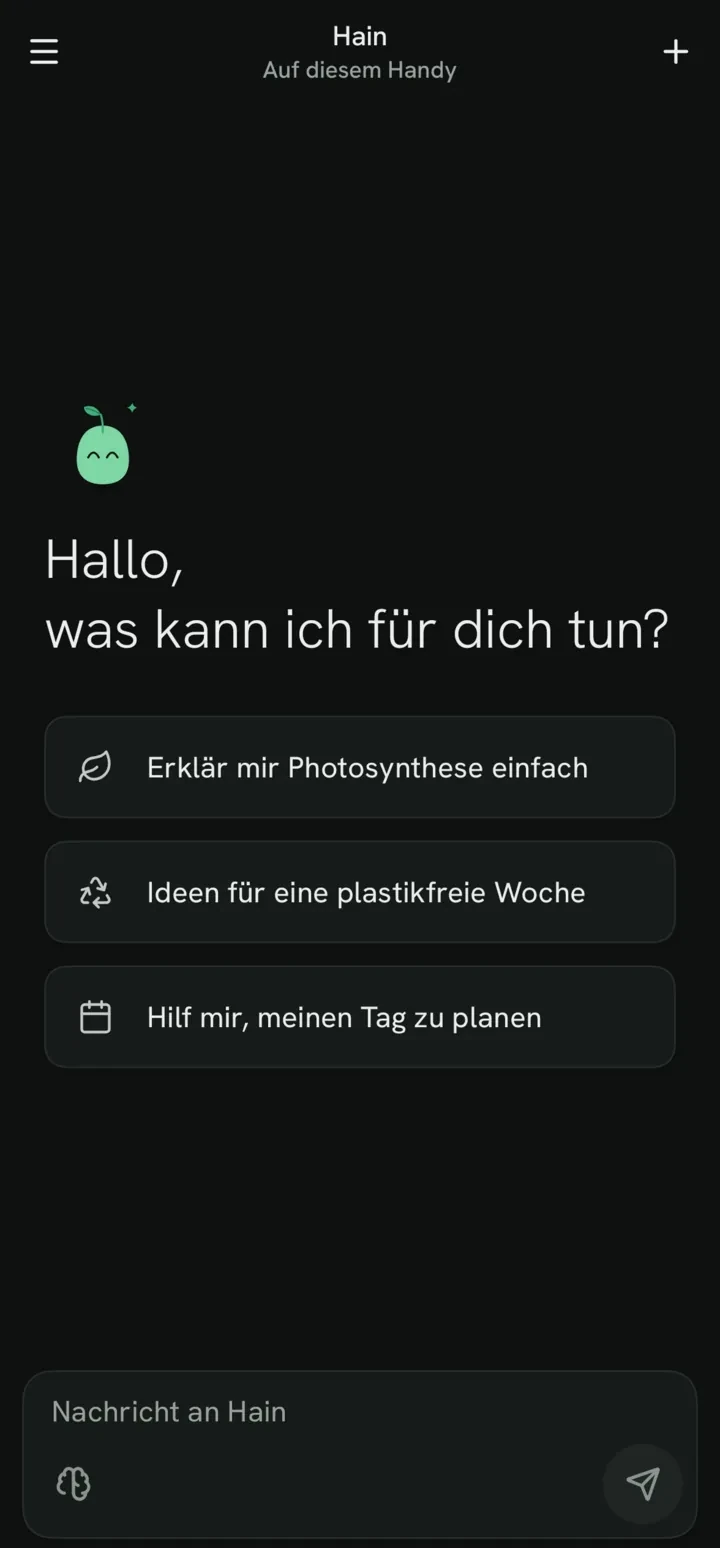
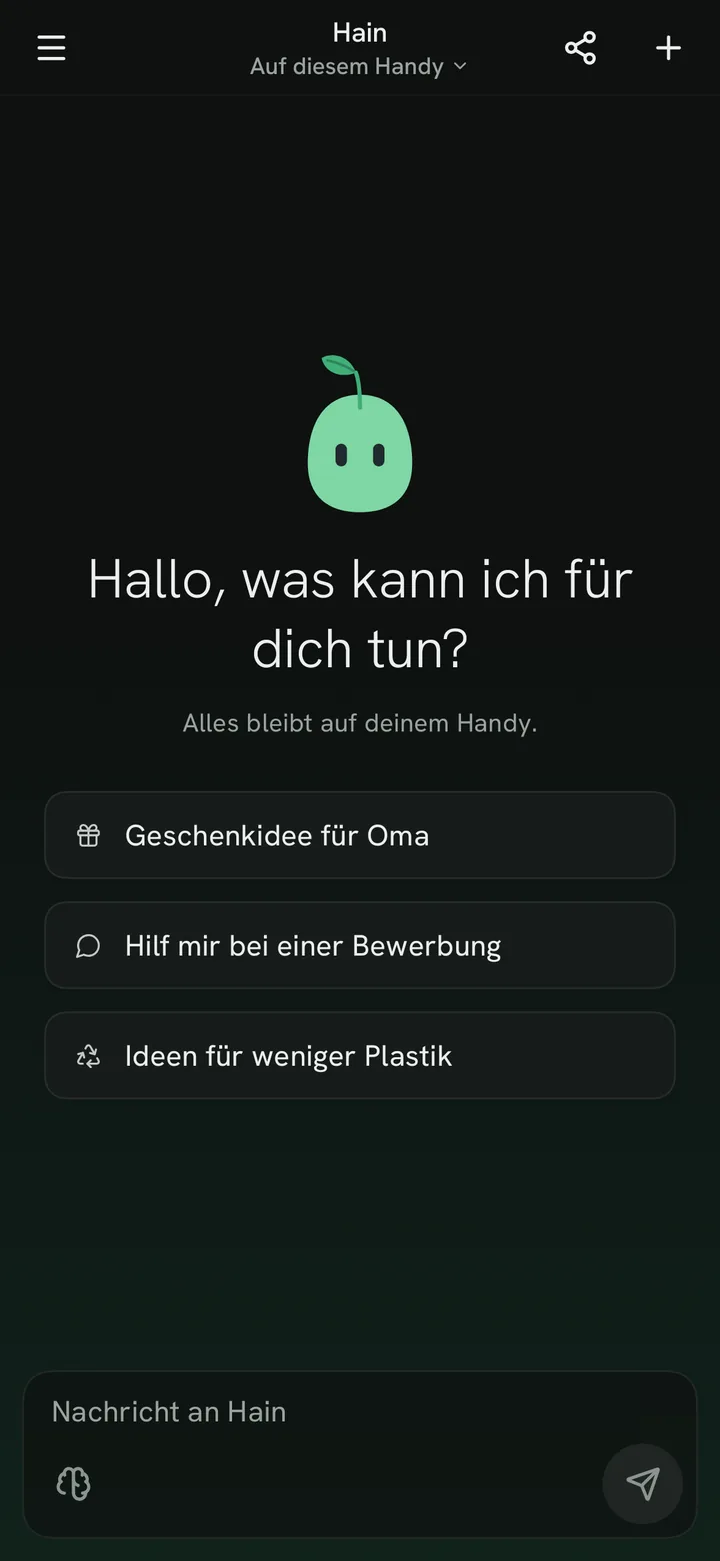
T-238: Docs – README, website (EN + /de) and screenshots for 0.1.10.2 (frosted glass, Pim status, Models & packs, offline Wikipedia, tablets)

diff --git a/website/src/content.ts b/website/src/content.ts
@@ -96,7 +96,9 @@ export const COPY: Record<Lang, Copy> = {
         { icon: 'languages', title: 'Speaks your language', text: 'Pim answers in the language you write in, or always in German or English.', status: 'ready' },
         { icon: 'cpu', title: 'Choose the brain', text: 'Tap “Hain · On this phone” at the top to switch between the brains on your phone. Plain names, the size, and which one is recommended for your phone. The new one loads in the background.', status: 'ready' },
         { icon: 'gauge', title: 'Quick start', text: 'The release version is shrunk and optimised and brings a profile, so Hain starts and scrolls faster from the very first start, also without Play.', status: 'ready' },
-        { icon: 'package', title: 'Knowledge packs', text: 'See, download and remove packs, with hints on what fits your phone.', status: 'ready' },
+        { icon: 'package', title: 'Models & packs', text: 'Knowledge, brains, multimedia and voice, each on its own page: see, download and remove packs, with hints on what fits your phone.', status: 'ready' },
+        { icon: 'book', title: 'Wikipedia offline', text: 'Load Wikipedia onto your phone (German or English, from about 140 MB). Pim then looks things up without internet, even in flight mode.', status: 'ready' },
+        { icon: 'tablet', title: 'Tablets & wide screens', text: 'On a tablet the chat list stays open on the left, and settings show the list and the open page side by side.', status: 'ready' },
         { icon: 'update', title: 'Update check (optional)', text: 'If you want, Hain asks GitHub once a day whether a newer version is out and shows a calm hint. Off until you say yes, nothing about you is sent, nothing installs by itself.', status: 'ready' },
         { icon: 'code', title: 'Developer mode', text: 'Hidden for tinkerers: tap the version 7 times. Try your own GGUF model from Hugging Face, tune sampling and thinking, see tokens per second.', status: 'ready' },
         { icon: 'news', title: 'News', text: 'Headlines from a fixed mix of 14 sources in German and English, plus your own feeds if you like. Pim sums up an article in 5 points, on your phone.', status: 'ready' },
@@ -138,7 +140,7 @@ export const COPY: Record<Lang, Copy> = {
       title: 'Calm, clear, and a little green.',
       sub: 'Lots of white, fine lines, green only where it matters. In light and dark.',
       placeholder: 'Screenshot coming soon',
-      items: ['Welcome', 'Start page', 'Thinking level', 'Long answers', 'Your chats', 'Settings'],
+      items: ['Welcome', 'Start page', 'Thinking level', 'Pim looks it up', 'Long answers', 'Your chats', 'Settings'],
     },
     privacy: {
       kicker: 'Privacy',
@@ -281,7 +283,9 @@ export const COPY: Record<Lang, Copy> = {
         { icon: 'languages', title: 'Spricht deine Sprache', text: 'Pim antwortet in der Sprache, in der du schreibst, oder immer auf Deutsch oder Englisch.', status: 'ready' },
         { icon: 'cpu', title: 'Gehirn wählen', text: 'Tippe oben auf „Hain · Auf diesem Handy“ und wechsle zwischen den Gehirnen auf deinem Handy. Mit einfachen Namen, der Größe und dem, was für dein Handy empfohlen ist. Das neue lädt im Hintergrund.', status: 'ready' },
         { icon: 'gauge', title: 'Schneller Start', text: 'Die Release-Version ist verkleinert und optimiert und bringt ein Profil mit: Hain startet und scrollt schon beim ersten Start schneller, auch ohne Play.', status: 'ready' },
-        { icon: 'package', title: 'Wissenspakete', text: 'Pakete ansehen, laden und entfernen, mit Hinweis, was zu deinem Handy passt.', status: 'ready' },
+        { icon: 'package', title: 'Modelle & Pakete', text: 'Wissen, Gehirne, Multimedia und Sprache, jedes auf einer eigenen Seite: Pakete ansehen, laden und entfernen, mit Hinweis, was zu deinem Handy passt.', status: 'ready' },
+        { icon: 'book', title: 'Wikipedia offline', text: 'Lade Wikipedia aufs Handy (Deutsch oder Englisch, ab etwa 140 MB). Dann schlägt Pim ohne Internet nach, auch im Flugmodus.', status: 'ready' },
+        { icon: 'tablet', title: 'Tablets & große Bildschirme', text: 'Auf dem Tablet bleibt die Chat-Liste links offen, und die Einstellungen zeigen Liste und offene Seite nebeneinander.', status: 'ready' },
         { icon: 'update', title: 'Update-Prüfung (freiwillig)', text: 'Wenn du willst, fragt Hain einmal am Tag bei GitHub, ob es eine neue Version gibt, und zeigt einen ruhigen Hinweis. Aus, bis du Ja sagst. Über dich wird nichts gesendet, nichts installiert sich von selbst.', status: 'ready' },
         { icon: 'code', title: 'Entwicklermodus', text: 'Versteckt für Bastler: tippe 7× auf die Version. Probier eigene GGUF-Modelle von Hugging Face, stell Sampling und Denken ein, sieh Token pro Sekunde.', status: 'ready' },
         { icon: 'news', title: 'Nachrichten', text: 'Schlagzeilen aus einem festen Mix von 14 Quellen auf Deutsch und Englisch, auf Wunsch mit deinen eigenen Feeds. Pim fasst einen Artikel in 5 Punkten zusammen, auf dem Handy.', status: 'ready' },
@@ -323,7 +327,7 @@ export const COPY: Record<Lang, Copy> = {
       title: 'Ruhig, klar und ein bisschen grün.',
       sub: 'Viel Weiß, feine Linien, Grün nur da, wo es zählt. Hell und dunkel.',
       placeholder: 'Screenshot folgt',
-      items: ['Willkommen', 'Startseite', 'Denk-Stufe', 'Lange Antworten', 'Deine Chats', 'Einstellungen'],
+      items: ['Willkommen', 'Startseite', 'Denk-Stufe', 'Pim schaut nach', 'Lange Antworten', 'Deine Chats', 'Einstellungen'],
     },
     privacy: {
       kicker: 'Datenschutz',
@@ -423,21 +427,20 @@ export const COPY: Record<Lang, Copy> = {
 // Screenshots in style A "Lichtung" (from docs/design/screens/style_a_*.png, converted to WebP).
 // Each has a light and a dark file in public/screenshots/: <id>-light.webp, <id>-dark.webp.
 // The page shows the one matching the visitor's colour scheme.
-export const SCREENSHOTS: string[] = ['onboarding', 'chat_empty', 'chat_composer_picker', 'chat_long_answer', 'drawer', 'settings']
+export const SCREENSHOTS: string[] = ['onboarding', 'chat_empty', 'chat_composer_picker', 'chat_pim_tools', 'chat_long_answer', 'drawer', 'settings']
 
 // Pixel size of each screenshot (light and dark are the same). They are cropped to where the app
 // content ends (T-105): no empty bottom strip, and the short settings page ends after its last row.
 export const SHOT_SIZE: Record<string, [number, number]> = {
-  onboarding: [720, 1548],
-  chat_empty: [720, 1548],
-  chat_composer_picker: [720, 1548],
-  chat_long_answer: [720, 1548],
-  drawer: [720, 1548],
-  settings: [720, 1008],
+  onboarding: [720, 1561],
+  chat_empty: [720, 1561],
+  chat_composer_picker: [720, 1561],
+  chat_pim_tools: [720, 1561],
+  chat_long_answer: [720, 1561],
+  drawer: [720, 1561],
+  settings: [720, 1112],
 }
 
-// The English screenshots (`<id>-<mode>-en.webp`, T-107) were recorded later: the settings page
-// has a short intro at the top since then, so it is taller. Others are as in SHOT_SIZE.
-export const SHOT_SIZE_EN: Record<string, [number, number]> = {
-  settings: [720, 1110],
-}
+// Since 0.1.10.2 (T-238) all screenshots are re-recorded with the frosted top bar and message box;
+// the English ones have the same size, so nothing differs here any more.
+export const SHOT_SIZE_EN: Record<string, [number, number]> = {}

diff --git a/website/src/components/Sections.tsx b/website/src/components/Sections.tsx
@@ -2,7 +2,7 @@ import {
   ShieldCheck, WifiOff, PiggyBank, Leaf, MessageCircle, Lock, Calculator, Newspaper, Brain, EyeOff, SlidersHorizontal, Trees,
   Download, Smartphone, Sparkles, Check, X, ChevronDown, ArrowUpRight, Bug, Languages, CodeXml, Wrench, Globe, CloudSun, BookOpen,
   Search, Link, AlarmClock, Package, NotebookPen, LayoutList, FileText, Mic, Clock, Share2, ImageIcon, Heart, RefreshCw,
-  Cpu, Gauge,
+  Cpu, Gauge, Tablet,
 } from 'lucide-react'
 import type { LucideIcon } from 'lucide-react'
 import { COPY, LINKS, SCREENSHOTS, type Lang, type Status } from '../content'
@@ -46,7 +46,7 @@ const FEATURE_ICONS: Record<string, LucideIcon> = {
   chat: MessageCircle, lock: Lock, brain: Brain, search: Search, book: BookOpen, link: Link, alarm: AlarmClock,
   shield: ShieldCheck, sliders: SlidersHorizontal, languages: Languages, package: Package, news: Newspaper,
   memory: NotebookPen, private: EyeOff, cards: LayoutList, file: FileText, mic: Mic, trees: Trees, calc: Calculator, share: Share2, image: ImageIcon,
-  update: RefreshCw, code: CodeXml, wrench: Wrench, cpu: Cpu, gauge: Gauge,
+  update: RefreshCw, code: CodeXml, wrench: Wrench, cpu: Cpu, gauge: Gauge, tablet: Tablet,
 }
 
 export function StatusBadge({ s, label }: { s: Status; label: string }) {

diff --git a/README.md b/README.md
@@ -59,13 +59,13 @@ Pim is a small mint-green sprout and your guide in Hain. He shows you around in 
 <table>
   <tr>
     <td align="center"><img src="docs/design/screens/style_a_onboarding_light.png" alt="Welcome screen in the calm Lichtung style" width="190"><br><sub>Welcome tour</sub></td>
-    <td align="center"><img src="docs/design/screens/style_a_chat_empty_light.png" alt="Empty chat with three suggestions" width="190"><br><sub>Chat</sub></td>
-    <td align="center"><img src="docs/design/screens/style_a_chat_composer_picker_light.png" alt="Thinking level picker in the message box" width="190"><br><sub>Thinking level</sub></td>
-    <td align="center"><img src="docs/design/screens/style_a_settings_light.png" alt="Settings with calm line icons" width="190"><br><sub>Settings &amp; packs</sub></td>
+    <td align="center"><img src="docs/design/screens/ui_chat_answer_light.png" alt="Answer with weather and Wikipedia steps under a frosted top bar" width="190"><br><sub>Chat</sub></td>
+    <td align="center"><img src="docs/design/screens/ui_chat_pim_status_light.png" alt="One small Pim status while Pim looks something up" width="190"><br><sub>Pim looks it up</sub></td>
+    <td align="center"><img src="docs/design/screens/ui_models_packs_light.png" alt="Settings page Models and packs with Knowledge, Brains, Multimedia, Voice and Extras" width="190"><br><sub>Models &amp; packs</sub></td>
   </tr>
 </table>
 
-<sub>Real screenshots are coming. To replace one, overwrite the matching file in <code>docs/readme/</code> (portrait, about 1:2).</sub>
+<p align="center"><img src="docs/design/screens/ui_tablet_chat_light.png" alt="Hain on a tablet: chat list on the left, chat on the right" width="780"><br><sub>On tablets the chat list stays open</sub></p>
 
 ## Features
 
@@ -80,12 +80,13 @@ Pim is a small mint-green sprout and your guide in Hain. He shows you around in 
 | 🗂 Saved chats | Stored encrypted on the phone; search, rename, pin, delete, grouped by day | ✅ |
 | ⚙ Settings | Theme, app icon (3D or flat), easy-to-read font, answer mode (fast / auto / thorough), answer language, "about me" and answer style. Thinking level also right in the message box (brain button) | ✅ |
 | 🧠 Choose the brain | Tap "Hain · On this phone" at the top: a small frosted menu lists the brains on your phone with a plain name ("Quick brain"), model and size, marks the one recommended for your phone and loads your pick in the background with progress. Brains not on your phone lead to Knowledge packs | ✅ |
-| 📦 Knowledge packs | See, download and remove packs, with hints on what fits your phone | ✅ |
+| 📦 Models & packs | Settings → Models & packs, sorted into Knowledge, Brains, Multimedia, Voice and Extras: see, download and remove packs, with hints on what fits your phone. **Wikipedia offline** (German ~136 MB or all articles ~4.7 GB, English ~297 MB or 1 million articles ~3 GB): with a pack the Wikipedia tool answers without internet | ✅ |
 | 🎨 Look | One calm design "Lichtung": lots of white, fine hairlines, Hain green only as an accent, radii 12–16 dp, quiet line icons; light font (Hanken Grotesk), dark mode; "Reduce motion" stops all movement | ✅ |
+| 📱 Tablets | From 840 dp width (tablet in landscape, open foldable, big split screen) the chat list stays open on the left, and settings show the list and the open page side by side. Phones stay as they are | ✅ |
 | 🌱 Pim | Lives everywhere (start page, thinking, done, errors, empty search, pull gestures) and the leaf always stays on his head. Tap him for a different little reaction each time, drag him around on the start page and he springs back | ✅ |
 | 📳 Haptics | Fine, crisp clicks instead of buzzing – send, switches, thinking level, answer done, menus, confirming a delete, pull gestures, errors. Never while text streams. Settings → Look → Vibration: Off / Subtle (default) / Normal / Strong | ✅ |
 | 🎮 Secret | Hold Pim on the start page for 5 seconds without letting go … (hint: 2048) | ✅ |
-| 🪟 Frosted menus | ⋯ menus, long-press menus and the thinking picker are frosted glass: what lies behind shows through softly blurred (Android 12+, a solid card on older phones) | ✅ |
+| 🪟 Frosted glass | Top bar and message box float as frosted glass over the chat, which scrolls under them; ⋯ menus, long-press menus, the thinking picker, the ↓ button and the side panel too (Android 12+, a calm solid surface on older phones and in battery saver). One Pim status shows waiting, thinking, looking up and writing | ✅ |
 | ℹ About Hain | Pim, version (with build number and commit), website, code on GitHub, licence and open-source licences – links open only after your tap | ✅ |
 | 🔄 Update check | Optional: once a day at start Hain asks GitHub if a newer version is out (stable or nightly) and shows a calm hint that opens the release page. Off until you say yes, nothing is installed by itself, the request shows in the network log | ✅ |
 | 🛠 Developer mode | Hidden: tap the version in "About Hain" 7 times. Own GGUF model from Hugging Face (size, RAM hint, download with progress), sampling, context size, thinking, own system prompt, tokens per second under answers | ✅ |
@@ -110,6 +111,13 @@ The live state is in [docs/workflow/STATUS.md](docs/workflow/STATUS.md), the pla
 
 ### New in the latest test build
 
+- **Version 0.1.10.2 – UI polish, offline Wikipedia, tablets.**
+  - **Frosted glass over the chat.** The top bar and the message box now float as frosted glass over the chat – the chat scrolls under them and shows through softly. The title sits truly in the middle. Menus, the thinking picker, the ↓ button and the side panel use the same, a bit stronger glass; in battery saver and on phones older than Android 12 they are a calm solid surface.
+  - **One Pim status.** Waiting, thinking, looking something up and writing are now one small element with Pim instead of several lines.
+  - **Tidier settings.** The first page only lists the groups. Everything to download is under **Models & packs**: Knowledge, Brains, Multimedia, Voice and Extras, each on its own page with “2 of 3 on your phone”. **News** has its own entry.
+  - **Wikipedia without internet.** Under **Models & packs → Knowledge** you can load Wikipedia for your phone (German: top articles ~136 MB or all ~4.7 GB; English: top ~297 MB or 1 million articles ~3 GB). With a pack, Pim's Wikipedia tool reads from your phone first – also in flight mode – and only goes online if the article is not in it.
+  - **News and honest steps.** “Was gibt’s Neues?” without a topic brings the top headlines. When a tool step fails, the step says why in plain words, and Pim does not repeat the same search again and again.
+  - **Tablets and wide screens.** From 840 dp width the chat list stays open on the left as a calm side panel, and **Settings** show the list on the left and the open page on the right.
 - **Version 0.1.10.1 – charts, site icons, steadier cards** (from 0.1.6.1).
   - **Charts in cards.** Numbers to compare or over time now come as a calm **bar** or **line chart** in Hain green. Try “Ich habe Mo 2, Di 3, Mi 1, Do 4 und Fr 2 Stunden gelernt, zeig das als Liniendiagramm” or ask for the weather of the next days as a chart. TalkBack reads the chart as one sentence (how many values, which is the highest).
   - **Cards stay in shape.** While Pim writes a card, a small grammar only lets through what a card can be, so lists, tables and charts break less often. Everything outside the card is written as before, and if something still goes wrong you simply see the text.
@@ -347,7 +355,7 @@ Architecture: [docs/specs/ARCHITECTURE.md](docs/specs/ARCHITECTURE.md) · Design
 
 ## Auf Deutsch
 
-Hain ist ein privater KI-Assistent fürs Android-Handy, der komplett auf dem Gerät läuft: chatten, rechnen, Wetter und Wikipedia nachschauen, im Web suchen, Nachrichten aus einem festen Mix (inkl. junge Welt) oder eigenen Feeds lesen und von Pim zusammenfassen lassen, Wecker, Timer, Termine und Routen vorbereiten (du bestätigst jedes Mal mit einem Tipp), sich Dinge merken („Merk dir …“), Listen und Checklisten als Karten zeigen, private Chats führen, Chats exportieren, Nachrichten diktieren (Mikro neben Senden, Deutsch und Englisch, alles auf dem Handy), Antworten vorlesen und deine PDFs, Fotos von Seiten und Textdateien verstehen (Büroklammer, Texterkennung auf dem Handy). Keine Cloud, kein Konto, keine API-Schlüssel. Ins Internet geht Hain nur, wenn du etwas brauchst, und zeigt dir genau, wohin die Anfrage geht. Das ganze Konzept steht in [docs/concept/KONZEPT.md](docs/concept/KONZEPT.md).
+Hain ist ein privater KI-Assistent fürs Android-Handy, der komplett auf dem Gerät läuft: chatten, rechnen, Wetter und Wikipedia nachschauen, im Web suchen, Nachrichten aus einem festen Mix (inkl. junge Welt) oder eigenen Feeds lesen und von Pim zusammenfassen lassen, Wecker, Timer, Termine und Routen vorbereiten (du bestätigst jedes Mal mit einem Tipp), sich Dinge merken („Merk dir …“), Listen und Checklisten als Karten zeigen, private Chats führen, Chats exportieren, Nachrichten diktieren (Mikro neben Senden, Deutsch und Englisch, alles auf dem Handy), Antworten vorlesen und deine PDFs, Fotos von Seiten und Textdateien verstehen (Büroklammer, Texterkennung auf dem Handy). Wikipedia gibt es auch als Paket fürs Handy (ohne Internet), und auf Tablets bleibt die Chat-Liste links offen. Keine Cloud, kein Konto, keine API-Schlüssel. Ins Internet geht Hain nur, wenn du etwas brauchst, und zeigt dir genau, wohin die Anfrage geht. Das ganze Konzept steht in [docs/concept/KONZEPT.md](docs/concept/KONZEPT.md).
 
 **Installieren:** Auf dem Handy die [Nightly-Seite](https://github.com/oskar26/hain/releases/tag/nightly) öffnen, `hain-debug.apk` laden, beim Öffnen „Unbekannte Apps installieren“ für den Browser erlauben, installieren. Beim ersten Start lädt Pim das Gehirn (ca. 1 GB, am besten im WLAN) – das kannst du auch überspringen und später im Chat nachholen. Updates einfach drüber installieren, Chats und Gehirn bleiben erhalten.
 

diff --git a/docs/workflow/TASKS.md b/docs/workflow/TASKS.md
@@ -1238,3 +1238,73 @@ Status values: `todo` · `doing (<model>)` · `review` · `done` · `blocked: <w
 - accept:
   - Alle Unterseiten zeigen einen nach links zeigenden Pfeil
 - check: `ktlintCheck detekt` + Screens (CI)
+
+## 0.1.10.2 · UI-Feinschliff (`hark/ui-polish`, PR #52)
+
+### T-230 · Chat-Kopfzeile als Milchglas
+
+- type: `polish` · size: `S` · lane: `B` · depends: T-233
+- files: feature-chat/.../api/{ChatChrome,ChatScreen}.kt, core-ui/.../components/{Scaffolding,Buttons,Messages}.kt, core-ui/.../effects/ChromeGlass.kt, `TopBarTitleTest`
+- do: Kopfzeile schwebt als Milchglas über dem Chat (Chat scrollt darunter), Titel mittig auf der ganzen Leiste, kompakter; Debug-Werte in einer Zeile.
+- accept: Titel bleibt mittig bei 1–3 Knöpfen; ohne Blur (Android < 12, Akkusparen) ruhige Seitenfarbe
+- check: Screens (CI)
+
+### T-231 · Ein Pim-Status für Warten, Denken, Nachschlagen, Schreiben
+
+- type: `polish` · size: `S` · lane: `B`
+- files: feature-chat/.../api/{PimStatus,ToolTimeline,ChatScreen}.kt, Strings, `PimStatusTest`
+- do: ein einziges Status-Element mit Pim statt mehrerer Zeilen; Phase wechselt weich.
+- check: `PimStatusTest` + Screens (CI)
+
+### T-232 · Nachrichtenfeld als Milchglas
+
+- type: `polish` · size: `S` · lane: `B` · depends: T-230
+- files: core-ui/.../components/Composer.kt, feature-chat/.../api/ChatChrome.kt
+- do: Eingabefeld und die Zeilen darüber als Milchglas über dem Chat, ruhiges Lichtung-Licht hinter dem Chat.
+- check: Screens (CI)
+
+### T-233 · Stärkeres Milchglas für Menüs, Popover, Sprung-Knopf, Seitenleiste
+
+- type: `polish` · size: `S` · lane: `B`
+- files: core-ui/.../effects/{HainGlass,MenuBackdrop}.kt, feature-chat/.../api/{ChatListDrawer,ChatScreen}.kt, `HainGlassTest`, `MenuBackdropTest`
+- do: einheitlich stärkerer Blur; im Akkusparmodus kein Blur.
+- check: Screens (CI)
+
+### T-236 · Nachrichten ohne Thema, ehrliche Fehlschritte
+
+- type: `fix` · size: `S` · lane: `B`
+- files: core-tools/.../news/{NewsQuery,NewsTool}.kt, core-tools/.../api/ToolRouter.kt, feature-chat/.../internal/ChatEngine.kt, feature-chat/.../api/ToolTimeline.kt, Tests
+- do: „Was gibt’s Neues?“ ohne Thema bringt die Top-Schlagzeilen; ein fehlgeschlagener Werkzeug-Schritt sagt kurz warum; dieselbe Suche wird nicht wiederholt.
+- check: `NewsQueryTest`, `ToolRouterTest`, `RobustCallsTest` (CI)
+
+### T-237 · Wissenspakete: Wikipedia offline (Kiwix ZIM)
+
+- type: `feature` · size: `M` · lane: `B` · depends: T-084
+- files: core-tools/.../wiki/zim/*, core-tools/.../wiki/WikipediaTool.kt, core-models/src/main/assets/catalog.json, core-models/.../api/KnowledgePacks.kt, app/.../MainActivity.kt, gradle/libs.versions.toml, docs/specs/LICENSES.md
+- do: eigener ZIM-Leser (Header, Pfad-Index, Cluster), zstd über zstd-jni (BSD-2-Clause, nur die Android-AAR); Pakete DE + EN im Katalog; das Werkzeug `wikipedia` liest zuerst offline, sonst online über das NetworkGate.
+- note: zstd-jni ist auf **1.5.7-12** gepinnt – ab 1.5.7-13 verlangt die AAR `minCompileSdk=37` (wir bauen gegen 36, KI-04); 1.5.7-12 ist 16-KB-ausgerichtet.
+- check: `ZimWikiTest`, `CatalogParserTest` (CI)
+
+### T-234 · Einstellungen aufgeräumt: „Modelle & Pakete“
+
+- type: `polish` · size: `M` · lane: `B` · depends: T-237
+- files: feature-settings/.../api/{SettingsScreen,PacksScreen,SettingsActions}.kt, app/.../MainActivity.kt, Strings, Tests
+- do: erste Ebene nur Gruppen; „Modelle & Pakete“ mit Unterseiten Wissen, Gehirne, Multimedia, Sprache, Extras; eigener Eintrag „Nachrichten“.
+- check: `PackCategoryTest` + Screens (CI)
+
+### T-235 · Tablet und Breitbild
+
+- type: `feature` · size: `M` · lane: `B` · depends: T-234
+- files: core-ui/.../layout/HainWindowSize.kt (neu), feature-chat/.../api/{ChatSidePanel (neu),ChatListDrawer,ChatScreen}.kt, feature-settings/.../api/SettingsScreen.kt, Screens-Tests
+- do:
+  1. `HainWindowSize` (COMPACT < 600 dp, MEDIUM < 840 dp, EXPANDED ab 840 dp; Grenzen wie Androids WindowSizeClass, eigener Code ohne Material).
+  2. Ab 840 dp bleibt die Chat-Liste als ruhige Seitenleiste (320 dp, Haarlinie) links offen; kein Menü-Knopf, kein Scrim, kein Gleiten.
+  3. Einstellungen als List-Detail: links die Gruppen (offene Gruppe mit grünem Rand, TalkBack „ausgewählt“), rechts die Seite (max. 720 dp breit). Gedächtnis, Pakete und Nachrichten öffnen weiter als eigene Seiten.
+- accept: Handy unverändert; Drehen/Split-Screen wechselt sauber; Tablet-Screens 1280 × 800 dp
+- check: `HainWindowSizeTest` + `TabletScreens`, `TabletSettingsScreens` (CI)
+
+### T-238 · Feinschliff über alle Screens
+
+- type: `polish` · size: `S` · lane: `B` · depends: T-235
+- do: Abstände, Touch-Ziele (≥ 48 dp) und Lichtung-Tokens über alle Screens angeglichen, maßvoll (siehe PR).
+- check: Screens (CI)

diff --git a/docs/workflow/STATUS.md b/docs/workflow/STATUS.md
@@ -4,6 +4,7 @@
 
 ## Now
 
+- **0.1.10.2 – UI-Feinschliff (04./05.11., `hark/ui-polish`, Draft-PR #52):** T-230 Kopfzeile und T-232 Nachrichtenfeld als Milchglas über dem Chat (Titel wirklich mittig), T-231 ein Pim-Status für Warten/Denken/Nachschlagen/Schreiben, T-233 stärkeres Milchglas für Menüs, Popover, ↓-Knopf und Seitenleiste (kein Blur im Akkusparmodus), T-236 „Was gibt’s Neues?“ ohne Thema = Top-Schlagzeilen, Fehlschritte sagen warum, keine wiederholte Suche bei ausgefallener Suche, T-237 Wikipedia offline (Kiwix-ZIM, eigener Leser, zstd-jni **1.5.7-12** gepinnt, weil ab 1.5.7-13 `minCompileSdk=37`), T-234 Einstellungen aufgeräumt („Modelle & Pakete“ mit Wissen/Gehirne/Multimedia/Sprache/Extras, Eintrag „Nachrichten“), T-235 Tablet/Breitbild (`HainWindowSize`, ab 840 dp feste Chat-Liste links, Einstellungen als List-Detail, Tablet-Screens 1280 × 800 dp), T-238 maßvoller Feinschliff (48-dp-Textknöpfe in Nachrichten, Vorschlagskarten max. 480 dp, Einstellungsseite mittig). Offen: Pakete-, Gedächtnis- und Nachrichten-Screen auf Tablets noch einspaltig (nur begrenzte Breite); Gerätetest auf echtem Tablet/Foldable.
 - **0.1.10.1 – main grün + Werkzeuge/Karten (04.11., `hark/main-fix`):** #44 auf main gemergt (Diagramme in Karten, Karten-Grammatik während der Antwort, Favicons an den Quellen, ConfirmCard in core-cards); nativeGenerate nimmt die Ganz-Antwort-Grammatik aus 7b (Gedächtnis-JSON) und die Karten-Grammatik (nur ohne die erste). Room-Schemas 4.json/5.json aus dem CI-Export. main-CI-Fehler war ein NDK-Download-Flake.
 - **0.1.6.1 – Rest Werkzeuge + Karten (04.11., `hark/rest-tools-cards`, Draft-PR #44, gestapelt auf #41):** T-068e `ConfirmCard` nach `core-cards` (Zustand ohne Chat); T-064c Favicons an den Quellen-Chips (`Favicons`: nur `https://<host>/favicon.ico` bzw. `/apple-touch-icon.png` der Quell-Website, über NetworkGate Zweck `IMAGES`, Disk-Cache, Buchstabe als Platzhalter, Einstellung „Quellen-Bilder“ `source_icons`, Standard an); T-132 Balken-/Liniendiagramm in Karten (Parser, eigener Canvas, TalkBack-Satz, `card.gbnf`, Prompt mit Diagramm-Beispiel); T-133 Karten-Grammatik während der Antwort (`hain_card_grammar.h`: an nach Zeile „```card“, aus nach „```“, ohne Grammatik bzw. bei Fehlschlag nachsichtiger Parser); Prompt-Hinweis „Wetter ohne Ort → weather ohne place“. Host-Test mit echtem LFM3 (`lfm3.gguf`): Wecker-Tage ✓, Wetter ohne Ort ✓ (vorher Rückfrage), Diagramme ✓ (vorher nie), Grammatik schaltet nur in Karten. Offen: „Weck mich jeden Samstag und Sonntag“ ohne Werkzeug-Aufruf.
 - **Häppchen 9 – Dokumente (04.11., `hark/day-9`, 0.1.9, Draft-PR #49):** T-120 PDF-Textebene mit pdfbox-android (Seite mit < 40 Zeichen = Scan), Seitenbilder/Vorschau mit `PdfRenderer` (300 dpi, max. 2.480 px), .txt/.md (UTF-8, sonst Windows-1252). **T-121 Entscheidung: eigene ONNX-Runtime-Pipeline statt RapidOCR-Android** (RapidOCR bringt eigene native Libs und ältere Modelle): PP-OCRv5 mobile Detektion + Latin-Erkennung + Zeilen-Orientierung (0°/180°) als ONNX aus PaddlePaddles offiziellen HF-Repos, Commit gepinnt + SHA-256, ~13,9 MB, Download nur nach „Texterkennung laden?“ über `NetworkGate.stream`; DB-Nachbearbeitung, CTC-Dekodierung, Lesereihenfolge (2 Spalten, Titel über beide Spalten) eigener Kotlin-Code; ONNX Runtime **1.28.0 gepinnt** (ab 1.29 Microsoft-Telemetrie), `TelemetryInitializer` im Manifest entfernt – gleiche Version wie Häppchen 10 (PR #48), also eine `.so`. Host-Test (JVM, ORT 1.28.0): Rechnungsseite und Zwei-Spalten-Seite fehlerfrei. T-122 `GermanOcrFixer` (Regeln 1–5) + Wörterbuch 208.341 Wörter (igerman98 GPL + FrequencyWords CC-BY-SA-4.0). T-123 eigene verschlüsselte `hain_docs.db` (Chat-Schema unverändert), Chunks ≈ 400 Token pro Seite, kleine Dokumente (≤ 3.000 Token zusammen) ganz mit `[S. n]` in die Nachricht, große über Werkzeug `search_document` (BM25 aus 4c, beste 4 Stellen, nur im Prompt, solange ein langes Dokument angehängt ist), Anhänge in `attachments_json`; UI: Büroklammer („Datei oder Foto“ / „Meine Dateien“), Fortschrittszeile, Karte „Texterkennung laden?“, Datei-Chips, „Meine Dateien“ mit Löschen + „Pack entfernen“. Offen: instrumentierter OCR-Test auf dem Gerät (≥ 95 % Zeichen), PaddleOCR-VL für Tabellen (T-150), Tabellen-Erkennung/„Genauer lesen“.

diff --git a/docs/workflow/HANDOFF_LOG.md b/docs/workflow/HANDOFF_LOG.md
@@ -601,3 +601,18 @@ Neu aufgesetzt: Der erste Lauf verlor seinen Worktree (/tmp-Reset); übernommen 
 - Schon in #50 enthalten (f8835fe): Anhänge aus privaten Chats nur flüchtig (`EphemeralDocs`, negative IDs, nie in `hain_docs.db`), Artikel aus NewsCard/Nachrichten über `LocalExternalLaunch` (App-Sperre greift nicht).
 - Konflikte: ChatStore/RoomChatPersistence (Karten + Verzweigungen + Anhänge), ChatExtras (answerFooter + favicons), MainActivity (DocLibrary + Favicons), Strings (`chat_action_*` → `cards_action_*` in core-cards), README/Website/TASKS/STATUS.
 - `hain.versionName=0.1.10.1`.
+
+## 2026-11-05 · 0.1.10.2 – UI-Feinschliff · review · harness: Hark · model: Hark · branch `hark/ui-polish` (PR #52)
+
+| task | status | check result | files outside list (reason) | open issues |
+|---|---|---|---|---|
+| T-230–T-233 | review | Screens (CI) grün, `TopBarTitleTest`, `PimStatusTest`, `HainGlassTest`, `MenuBackdropTest` | – | – |
+| T-236 | review | `NewsQueryTest`, `ToolRouterTest`, `RobustCallsTest` (Erwartung an die eine Router-Wiederholung nach Netzfehler angepasst) | – | – |
+| T-237 | review | CI rot durch `checkDebugAarMetadata`: zstd-jni 1.5.7-25 verlangt `minCompileSdk=37`. Alle AARs geprüft: bis **1.5.7-12** ohne minCompileSdk und 16-KB-ausgerichtet → gepinnt | LICENSES.md (Version) | Gerätetest mit echtem ZIM |
+| T-234 | review | `PackCategoryTest`; `ModelPickerTest` folgt dem neuen Text „More brains in Models & packs“ | – | – |
+| T-235 | review | `HainWindowSizeTest`, `TabletScreens`, `TabletSettingsScreens` (1280 × 800 dp) | – | Gerätetest Tablet/Foldable, Drehen |
+| T-238 | review | Screens (CI) | NewsScreen (`TextAction` 48 dp) | – |
+
+- Gradle lokal nicht gestartet (geteilte Sandbox): ktlint 1.5.0 + detekt 1.23.8 CLI, `tools/check_strings.py` lokal, Rest über CI, APK, Screens.
+- `HainWindowSize`: eigene Klasse mit den Grenzen von Androids WindowSizeClass (600/840 dp), keine Material-Bibliothek. Breite aus `LocalConfiguration.screenWidthDp` (folgt Split-Screen und Drehen).
+- Konflikte mit `hark/news-reader` erwartet: ChatScreen.kt, ChatEngine.kt, MainActivity.kt, catalog.json, libs.versions.toml, gradle.properties, strings.xml, NewsTool.kt (dazu README/Website/TASKS/STATUS).
